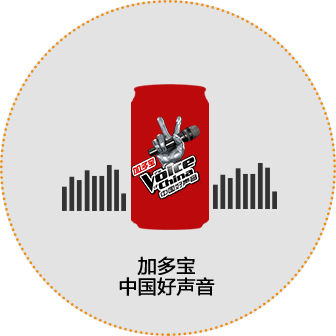
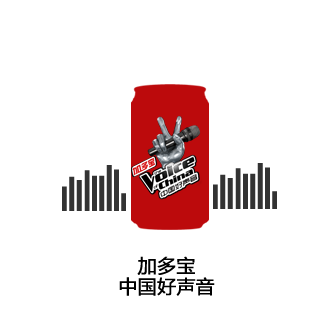
动画修改

diff --git a/apppage/sub_1_2.html b/apppage/sub_1_2.html
@@ -5,6 +5,6 @@
 <meta name="format-detection" content="telephone=no">
 <meta name="format-detection" content="address=no">
 <link href="css/sub.css" rel="stylesheet" type="text/css">
-<div class="main">
-<div class="sub-1-2"></div>
+<div class="main sub-1-2">
+<img src="./images/back-1-2.png">
 </div>

diff --git a/apppage/css/sub.css b/apppage/css/sub.css
@@ -18,8 +18,10 @@ width:100%;
 .sub-1-2{
 width:100%;
 height:100%;
-background:url(../images/back-1-2.png) no-repeat;
-background-size:100% 100%;
+}
+.sub-1-2 img{
+width:100%;
+height:100%;
 }
 /*sub-4-1*/
 .sub-4-1{
